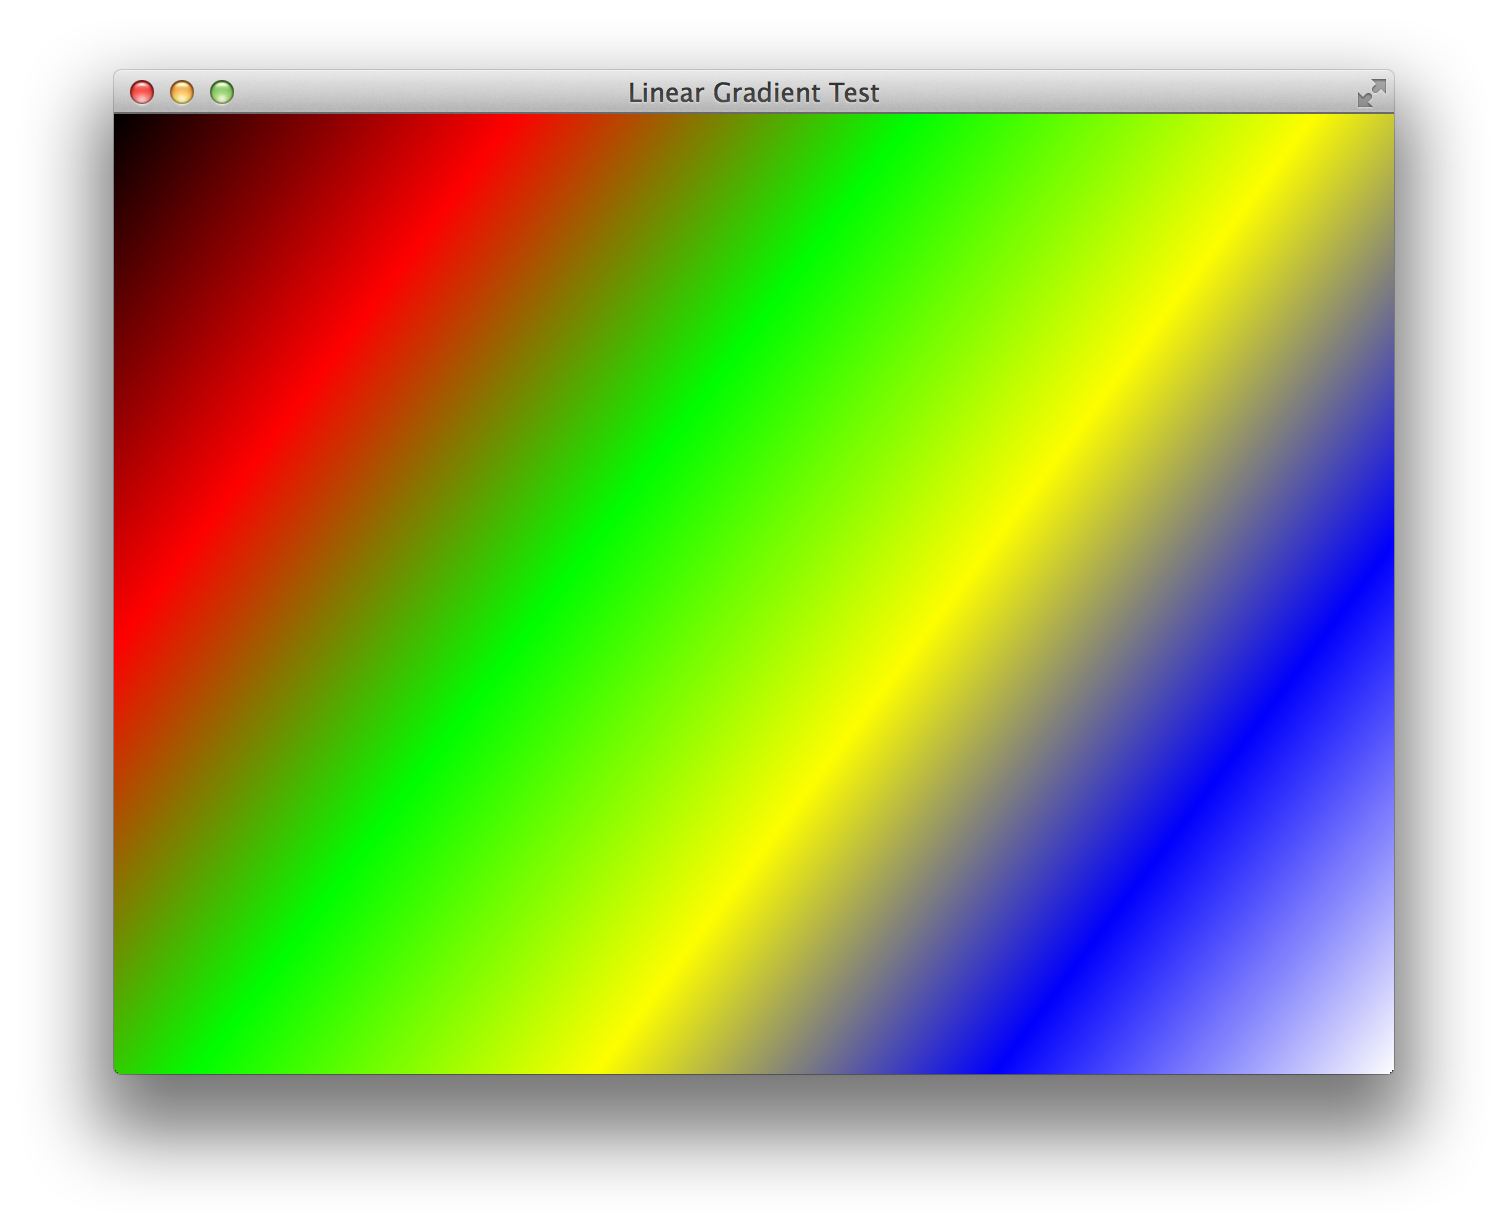
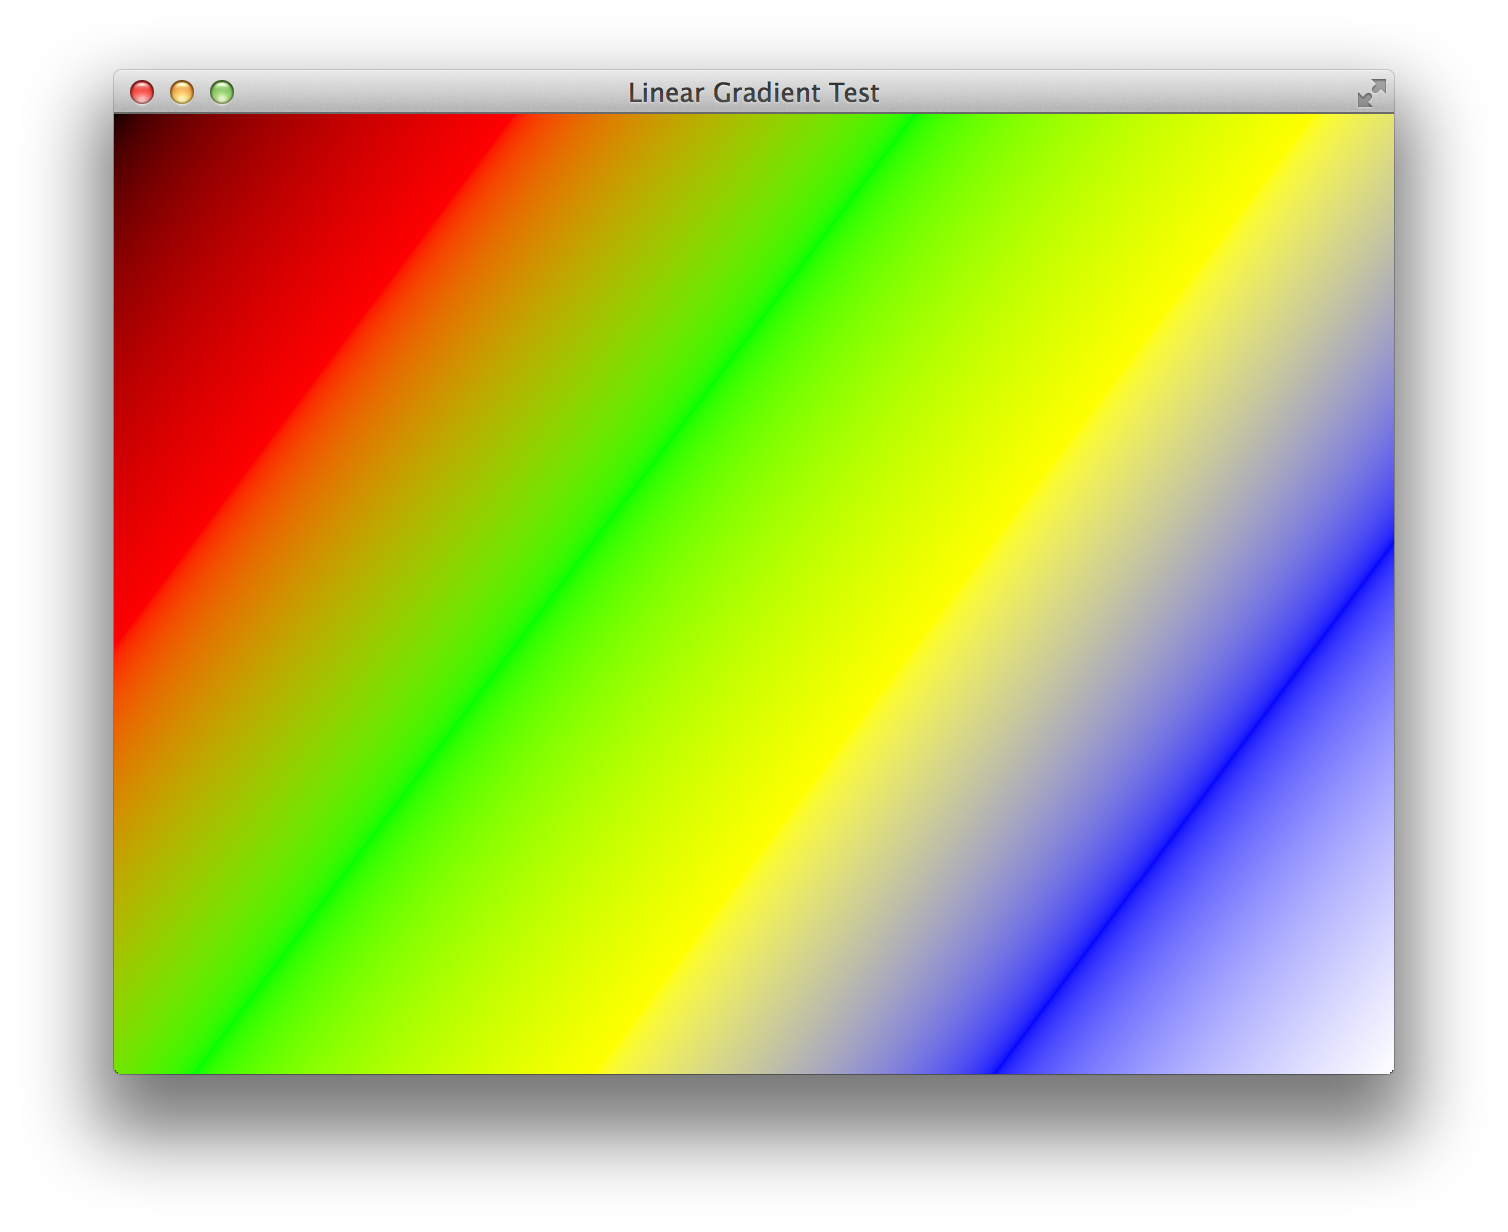
https://www.youtube.com/watch?v=LKnqECcg6Gw

diff --git a/sdl2_gradient.cpp b/sdl2_gradient.cpp
@@ -83,34 +83,6 @@ bool spnlib_sdl2_array_to_colorstop(
 	return true;
 }
 
-// Colors are vectors! Let's take their linear combinations...
-static SDL_Color operator*(SDL_Color c, double lambda)
-{
-	lambda = std::min(std::max(0.0, lambda), 1.0);
-
-	return {
-		Uint8(c.r * lambda),
-		Uint8(c.g * lambda),
-		Uint8(c.b * lambda),
-		Uint8(c.a * lambda)
-	};
-}
-
-static SDL_Color operator*(double lambda, SDL_Color c)
-{
-	return c * lambda;
-}
-
-static SDL_Color operator+(SDL_Color c1, SDL_Color c2)
-{
-	return {
-		Uint8(c1.r + c2.r),
-		Uint8(c1.g + c2.g),
-		Uint8(c1.b + c2.b),
-		Uint8(c1.a + c2.a)
-	};
-}
-
 static SDL_Color interpolate_color(
 	const SPN_SDL_ColorStop color_stops[],
 	unsigned n,
@@ -147,7 +119,16 @@ static SDL_Color interpolate_color(
 	double p0 = it[-1].p;
 	double p1 = it[0].p;
 	double q = (p - p0) / (p1 - p0);
-	return (1 - q) * it[-1].color + q * it[0].color;
+
+	// return (1 - q) * it[-1].color + q * it[0].color;
+	// https://www.youtube.com/watch?v=LKnqECcg6Gw
+	auto c0 = it[-1].color;
+	auto c1 = it[0].color;
+	Uint8 r = std::sqrt(c0.r * c0.r * (1 - q) + c1.r * c1.r * q);
+	Uint8 g = std::sqrt(c0.g * c0.g * (1 - q) + c1.g * c1.g * q);
+	Uint8 b = std::sqrt(c0.b * c0.b * (1 - q) + c1.b * c1.b * q);
+	Uint8 a = std::sqrt(c0.a * c0.a * (1 - q) + c1.a * c1.a * q);
+	return { r, g, b, a };
 }
 
 static void renderPixelBuffer(
